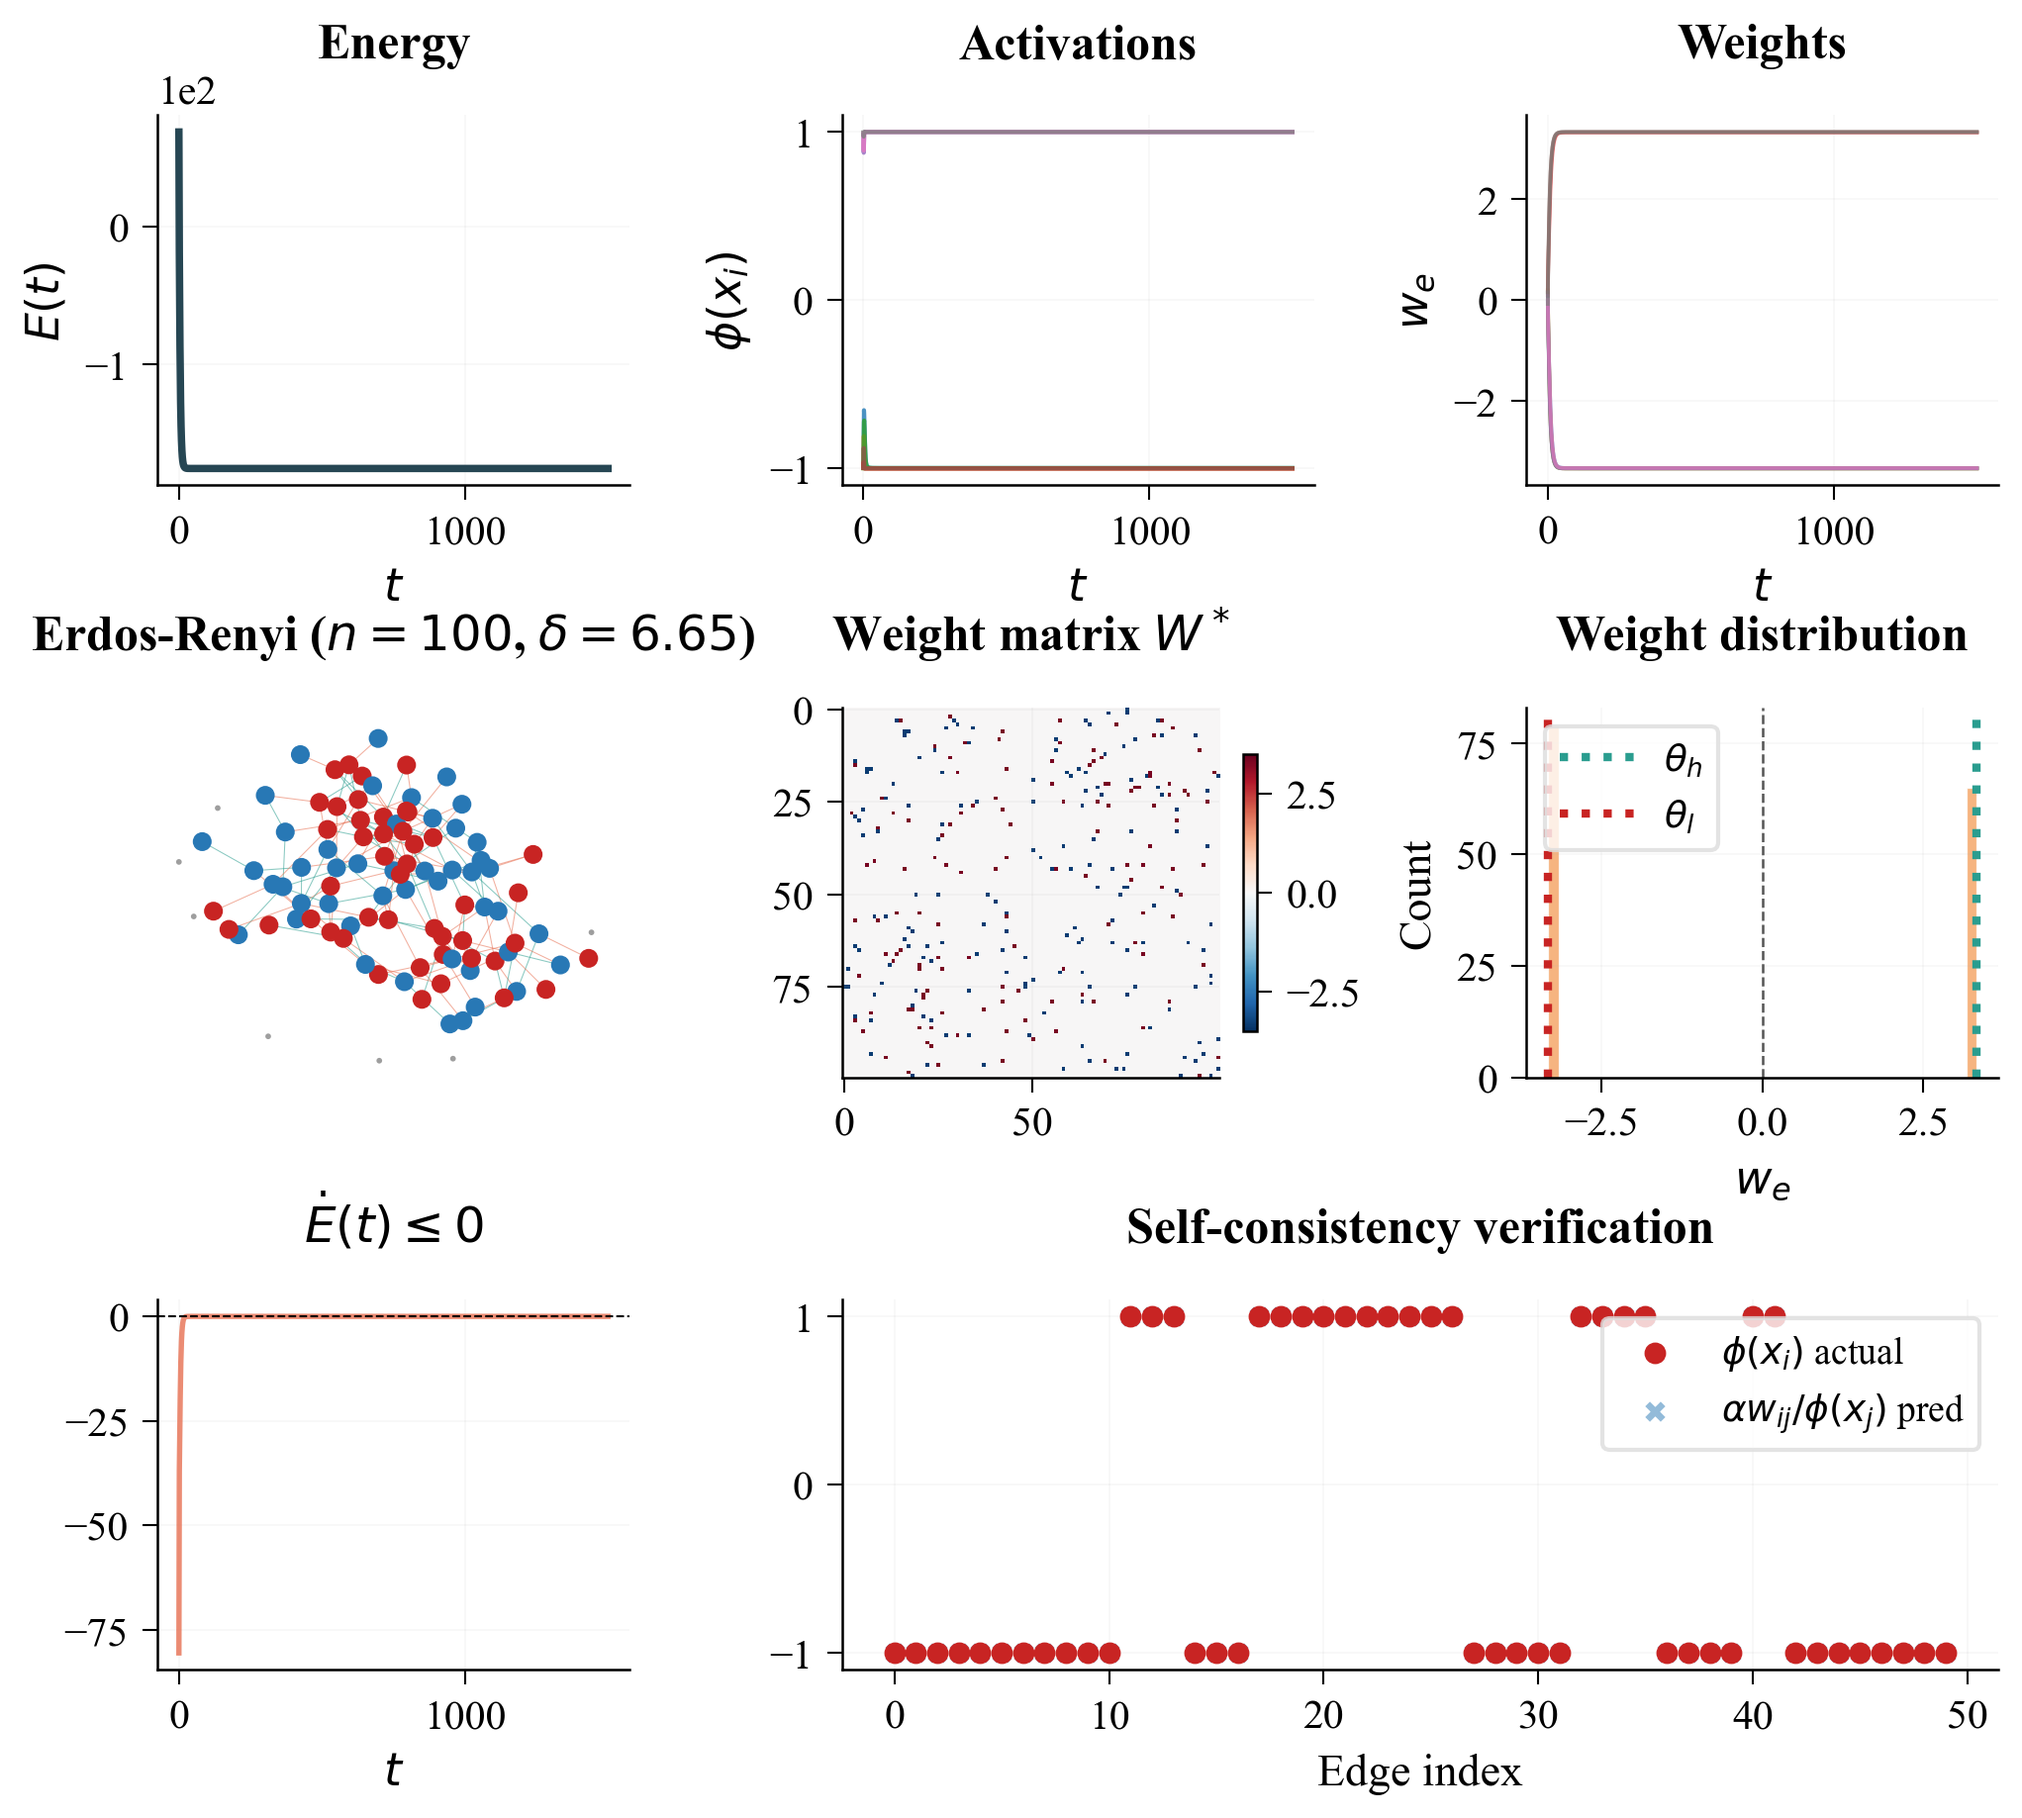
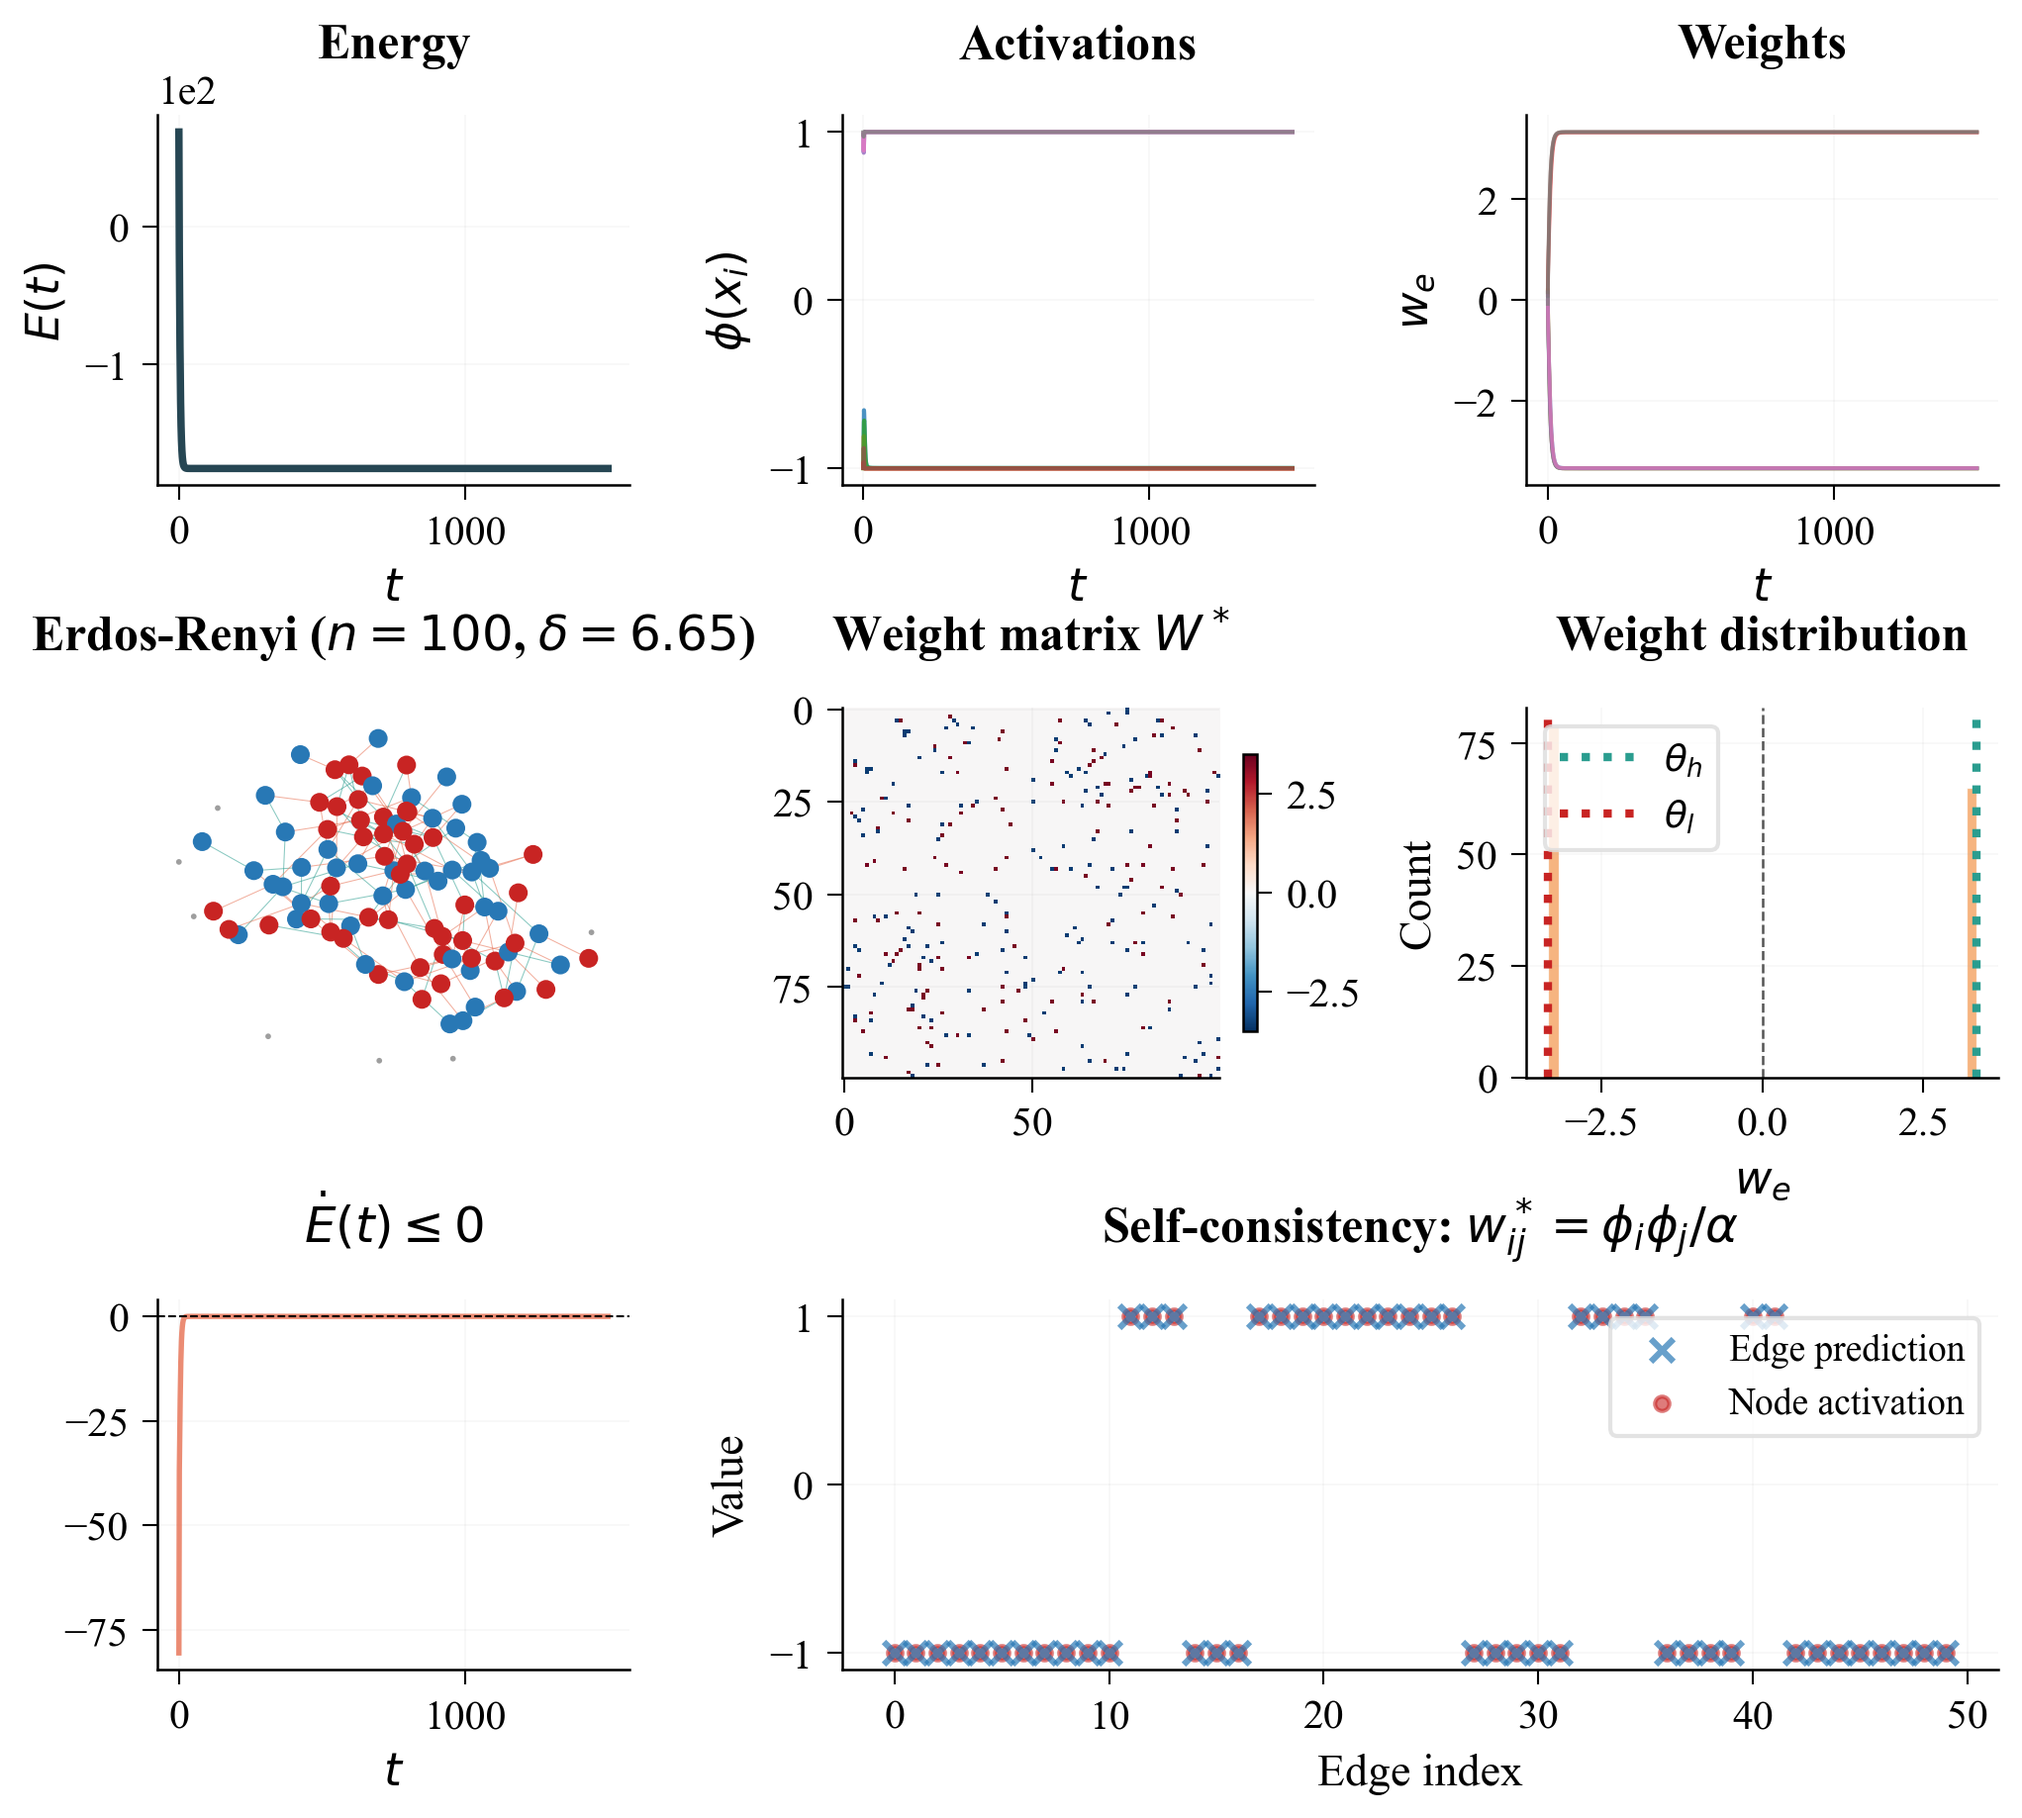
chore: update simulation figures and dgng_pub_v2.py with latest publication versions

diff --git a/simulations/python/dgng_pub_v2.py b/simulations/python/dgng_pub_v2.py
@@ -189,11 +189,13 @@ def pub_figure(T, X, W, edges_used, E_hist, ca, eps, alpha, name, topo_label):
         if abs(px_f[j]) > 1e-6:
             pv.append(alpha * w_f[idx] / px_f[j]); av.append(px_f[i])
     if pv:
-        ax.scatter(range(len(av)), av, c=C_RED, s=18, label='$\\phi(x_i)$ actual', zorder=3)
-        ax.scatter(range(len(pv)), pv, c=C_BLUE, s=14, alpha=0.5, marker='x', label='$\\alpha w_{ij}/\\phi(x_j)$ pred')
+        ax.scatter(range(len(pv)), pv, c=C_BLUE, s=30, alpha=0.7, marker='x',
+                   label='Edge prediction', zorder=4, linewidths=1.5)
+        ax.scatter(range(len(av)), av, c=C_RED, s=12, alpha=0.6,
+                   label='Node activation', zorder=3)
         ax.legend(fontsize=9, loc='best')
-    ax.set_title('Self-consistency verification', fontsize=12, fontweight='bold')
-    ax.set_xlabel('Edge index'); ax.grid(alpha=0.10)
+    ax.set_title('Self-consistency: $w_{ij}^* = \\phi_i\\phi_j/\\alpha$', fontsize=12, fontweight='bold')
+    ax.set_xlabel('Edge index'); ax.set_ylabel('Value'); ax.grid(alpha=0.10)
 
     fname = os.path.join(OUT_DIR, f"dgng_pub_{name}.png")
     fig.savefig(fname, dpi=300, facecolor='white')
